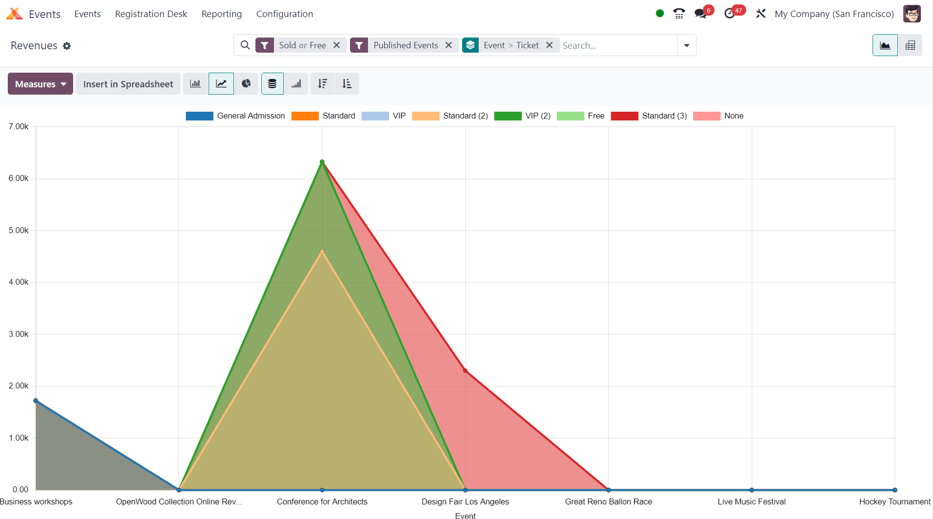
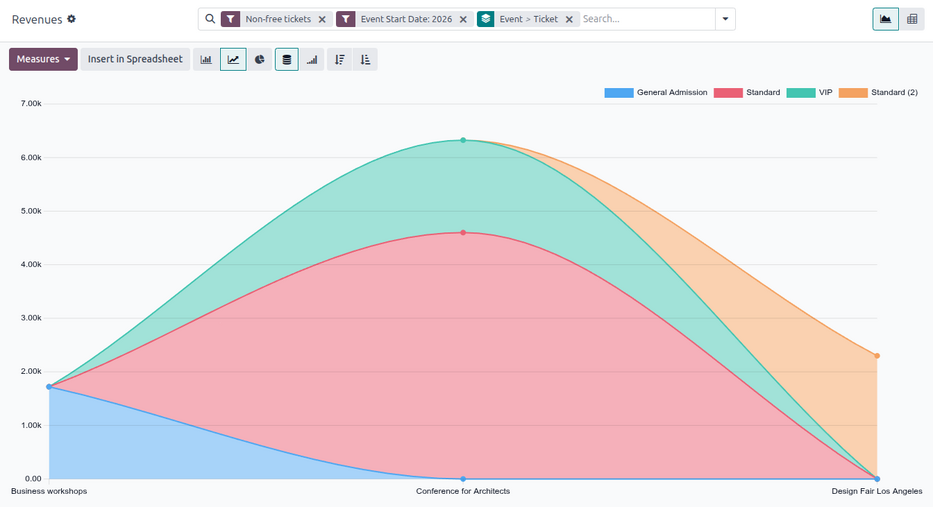
[IMP] Events: Update revenues report 18.0
closes odoo/documentation#19215

X-original-commit: fb485886435383e303ccae2995d4e76055eec5c1

diff --git a/content/applications/marketing/events/event_reporting/revenues_report.rst b/content/applications/marketing/events/event_reporting/revenues_report.rst
@@ -10,56 +10,49 @@ The following documentation focuses on the reporting options related to event *R
 Revenues reporting page
 =======================
 
-To access the *Attendees* reporting page, navigate to :menuselection:`Events app --> Reporting -->
+To access the *Revenues* reporting page, navigate to :menuselection:`Events app --> Reporting -->
 Revenues`.
 
 .. image:: revenues_report/default-view.png
-   :align: center
    :alt: The default view of the Revenues reporting page in the Odoo Events application.
 
 By default, the :guilabel:`Revenues` reporting page appears as a graph (a :icon:`fa-line-chart`
 :guilabel:`(Line Chart)` with :icon:`fa-database` :guilabel:`(Stacked)` data). The default filters,
-:guilabel:`Non-free tickets` and :guilabel:`Event Start Date: (current year)`, are present in the
+:guilabel:`Non-free tickets` and :guilabel:`Event Start Date: (current year)`, are applied in the
 search bar.
 
 .. tip::
    To learn more about the various graph views (and graph view options), refer to the :ref:`Graph
    views <reporting/using-graph>` documentation.
 
-The :guilabel:`Revenues` reporting page can also be viewed as a :ref:`pivot table
-<reporting/views/pivot>`, by clicking the :icon:`oi-view-pivot` :guilabel:`(Pivot)` icon in the
-upper-right corner.
+The *Revenues* reporting page can also be viewed as a :ref:`pivot table <reporting/views/pivot>`, by
+clicking the :icon:`oi-view-pivot` :guilabel:`(Pivot)` icon in the upper-right corner.
 
 Measures
 --------
 
-Choosing specific :ref:`Measures <reporting/choosing-measures>` is a quick way to customize
-reporting pages.
+Choosing specific :ref:`measures <reporting/choosing-measures>` allows users to customize reporting
+pages.
 
-Regardless of the chosen view, the measures on the :guilabel:`Revenues` reporting page are as
-follows: :guilabel:`Revenues`, :guilabel:`Untaxed Revenues`, and :guilabel:`Count`.
+Clicking the :guilabel:`Measures` drop-down button reveals the following options:
+
+- :guilabel:`Revenues`: Shows the revenues generated from events.
+- :guilabel:`Untaxed Revenues`: Shows the untaxed revenues generated from events.
+- :guilabel:`Count`: Shows the total number of registrants who attended events.
 
 .. note::
-   In the default graph view of the :guilabel:`Revenues` reporting page, only the
-   :guilabel:`Revenues` option is set in the :guilabel:`Measures` drop-down menu.
-
    In graph view, only one of the :guilabel:`Measures` can be selected at a time.
 
    When the pivot option is selected, all :guilabel:`Measures` options are selected, by default.
 
-- :guilabel:`Revenues`: shows the revenues generated from events.
-- :guilabel:`Untaxed Revenues`: shows the untaxed revenues generated from events.
-- :guilabel:`Count`: shows the total amount of registrants who attended events.
-
 Filters and grouping options
 ----------------------------
 
-To reveal a drop-down menu of filter and grouping options to create custom reports, click the
-:icon:`fa-caret-down` :guilabel:`(down arrow)` to the right of the search bar.
+To reveal a drop-down menu of filter and grouping options, click the :icon:`fa-caret-down`
+:guilabel:`(down arrow)` next to the search bar.
 
-Doing so opens a drop-down mega menu of options organized into columns: :ref:`Filters
-<search/preconfigured-filters>`, :ref:`Group By <search/group>`, and :ref:`Favorites
-<search/favorites>`.
+The drop-down menu allows users to set :ref:`Filters <search/preconfigured-filters>` and :ref:`Group
+By <search/group>` options.
 
 .. note::
    If a time-related option has been selected from the :guilabel:`Filters` column (e.g. the default
@@ -74,41 +67,38 @@ Doing so opens a drop-down mega menu of options organized into columns: :ref:`Fi
 Filter options
 ~~~~~~~~~~~~~~
 
-In the :guilabel:`Filters` column of the drop-down mega menu, there are various event-related
-options that can be utilized to create custom reports, based on a number of specific criteria.
+The :guilabel:`Filters` column in the search bar's drop-down menu allows users to restrict the data
+to specific criteria.
 
-Multiple options in the :guilabel:`Filters` column can be selected at once.
+Multiple options in the :guilabel:`Filters` column can be selected at once. Options can be applied
+to any view.
 
 The :guilabel:`Filters` column has the following options:
 
-- :guilabel:`Non-free tickets`: event tickets/registrations that were **not** free.
-- :guilabel:`Free`: event tickets/registrations that *were* free.
-- :guilabel:`Pending payment`: event tickets/registrations that were purchased, but still have
-  payment pending.
-- :guilabel:`Sold`: event tickets/registrations that have been successfully sold (and paid for).
-- :guilabel:`Registration Date`: Click the :icon:`fa-caret-down` :guilabel:`(down arrow)` icon to
-  reveal a list of month, quarter, and year options. Select any number of these options to view a
-  specific periods of time and see how many registrations happened during that time.
-- :guilabel:`Upcoming/Running`: include revenue-related information for events that are either
-  currently running or are going to happen in the future.
-- :guilabel:`Past Events`: include revenue-related information for events that have already taken
-  place.
-- :guilabel:`Event Start Date`: Click the :icon:`fa-caret-down` :guilabel:`(down arrow)` icon to
-  reveal a list of month, quarter, and year options. Select any number of these options to designate
-  event start dates to use as filters for revenue-related event data.
-- :guilabel:`Event End Date`: Click the :icon:`fa-caret-down` :guilabel:`(down arrow)` icon to
-  reveal a list of month, quarter, and year options. Select any number of these options to designate
-  event end dates to use as filters for revenue-related event data.
-- :guilabel:`Published Events`: Select this option to show revenue-related data for published
-  events.
-- :guilabel:`Add Custom Filter`: Create a custom filter to analyze event-related revenue data. To
-  learn more, refer to the documentation on :ref:`custom filters <search/custom-filters>`.
+- :guilabel:`Non-free tickets`: Filter by event tickets/registrations that are not free.
+- :guilabel:`Free`: Filter by event tickets/registrations that are free.
+- :guilabel:`Pending payment`: Filter by event tickets/registrations that are purchased but are
+  pending payment.
+- :guilabel:`Sold`: Filter by event tickets/registrations that are sold and paid for.
+- :guilabel:`Registration Date`: Filter by a specific registration date. Click the
+  :icon:`fa-caret-down` :guilabel:`(down arrow)` icon to reveal a list of month, quarter, and year
+  options.
+- :guilabel:`Upcoming/Running`: Filter by current or future events.
+- :guilabel:`Past Events`: Filter by completed events.
+- :guilabel:`Event Start Date`: Filter by a specific event start date. Click the
+  :icon:`fa-caret-down` :guilabel:`(down arrow)` icon to reveal a list of month, quarter, and year
+  options.
+- :guilabel:`Event End Date`: Filter by a specific event end date. Click the :icon:`fa-caret-down`
+  :guilabel:`(down arrow)` icon to reveal a list of month, quarter, and year options.
+- :guilabel:`Published Events`: Filter by published events.
+- :guilabel:`Add Custom Filter`: Create a :ref:`custom filter <search/custom-filters>` to analyze
+  event-related revenue data.
 
 Group By options
 ~~~~~~~~~~~~~~~~
 
-In the :guilabel:`Group By` column of the drop-down mega menu, there are various event-related
-options to create custom groupings of data.
+The :guilabel:`Group By` column in the search bar's drop-down menu allows users to group the data by
+specific criteria.
 
 Multiple :guilabel:`Group By` options can be selected at once.
 
@@ -121,71 +111,56 @@ The :guilabel:`Group By` column has the following options:
 - :guilabel:`Registration Status`: Group data based on the status of registrations.
 - :guilabel:`Sale Order Status`: Group data based on the status of event-related sales orders.
 - :guilabel:`Customer`: Group data based on customer records.
-- :guilabel:`Add Custom Group`: Click the :icon:`fa-caret-down` :guilabel:`(down arrow)` icon to
-  reveal a drop-down of grouping options. To select one, click on the desired option, and Odoo adds
-  it to the :guilabel:`Group By` column. Multiple selections can be made.
+- :guilabel:`Add Custom Group`: Create a :ref:`custom group <search/group>` to organize data by
+  additional fields. Click the :icon:`fa-caret-down` :guilabel:`(down arrow)` icon to reveal a
+  drop-down of grouping options. Multiple selections can be made.
 
 Sample report: event ticket analysis (graph)
 ============================================
 
-The following is an example of how various filters and grouping options can create a useful analytic
-graph report related to event revenues. In this case, the configurations present data about sold or
-free tickets to published events, with the metrics separated by ticket type and event.
+The following is an example of how various filters and grouping options can be used to compare the
+distributions of paid tickets and free tickets for published events, organized by ticket type and
+event.
 
-.. image:: revenues_report/event-ticket-analysis.png
-   :align: center
-   :alt: The event ticket analysis sample report with unique filters and groupings in place.
+To create this report, navigate to :menuselection:`Events app --> Reporting --> Revenues`. Stay in
+the default graph view but remove the default filters from the search bar.
 
-To create such a report, navigate to :menuselection:`Events app --> Reporting --> Revenues`. Stay in
-the default graph view, but remove the default filters from the search bar.
+Then, click the :icon:`fa-caret-down` :guilabel:`(down arrow)` next to the search bar. From here,
+select :guilabel:`Free` and :guilabel:`Sold` from the :guilabel:`Filters` column.
 
-Then, click the :icon:`fa-caret-down` :guilabel:`(down arrow)` to the right of the search bar, to
-reveal the drop-down mega menu of filter and grouping options.
-
-From here, select :guilabel:`Free` and :guilabel:`Sold` from the :guilabel:`Filters` column.
-
-Then, since it is desired to **only** view data related to already published events, select the
-:guilabel:`Published Events` option in the :guilabel:`Filters` column, as well.
+To view data related **only** to already published events, select the :guilabel:`Published Events`
+option in the :guilabel:`Filters` column.
 
 Next, in the :guilabel:`Group By` column, select the :guilabel:`Event` and :guilabel:`Ticket`
-options, **in that sequential order**. Doing so first groups the data by event, *then* by ticket
-type, which provides a more useful array of data to analyze.
+options, **in that order**. Doing so first groups the data by event, then by ticket type.
 
 .. important::
    The order in which the options are selected in the :guilabel:`Group By` column directly affects
-   how the data is presented on the report.
+   how the data is grouped and displayed on the report.
 
-From there, additional configurations can be added for more detailed data, if desired.
-
-If no additional filters or groupings are added, Odoo presents a graphical representation of data
-related to all *free* or *sold* tickets for *published events*, grouped by *event*, and organized by
-*ticket* type.
+.. image:: revenues_report/event-ticket-analysis.png
+   :alt: The event ticket analysis sample report with unique filters and groupings in place.
 
 Sample report: event type analysis (pivot table)
 ================================================
 
-The following is an example of how various filters and grouping options can create a useful analytic
-pivot table report related to event revenues. In this case, the configurations present data about
-how much revenue different event types have generated, in order to gauge which events are the most
-profitable.
+The following is an example of how to create a report analyzing revenue by event type to determine
+which event types are most profitable.
 
-.. image:: revenues_report/event-type-analysis.png
-   :align: center
-   :alt: The event type analysis sample report with unique filters and groupings in place.
-
-First, navigate to :menuselection:`Events app --> Reporting --> Revenues`, and switch to the pivot
-table view, by clicking the :icon:`oi-view-pivot` :guilabel:`(Pivot)` icon in the upper-right
-corner.
+First, navigate to :menuselection:`Events app --> Reporting --> Revenues` and switch to the pivot
+table view by clicking the :icon:`oi-view-pivot` :guilabel:`(Pivot)` icon in the upper-right corner.
 
 Keep the default filters (:guilabel:`Non-free tickets` and :guilabel:`Event Start Date: (year)`) in
 the search bar.
 
-Next, open the :guilabel:`Measures` drop-down menu, and deselect the option for :guilabel:`Count`,
-because this report is only going to focus on revenues.
+Next, open the :guilabel:`Measures` drop-down menu and deselect the option for :guilabel:`Count` as
+this report focuses only on revenues.
 
 Then, click :icon:`fa-plus-square` :guilabel:`Total` above the column titles, and select
 :guilabel:`Event Type` from the resulting drop-down menu.
 
-With these configurations in place, all the revenues generated from the events (and their
-corresponding registrations) are displayed, organized by the event type (presented as expandable
-columns).
+With these configurations, all revenues generated from the events and their corresponding
+registrations are organized by the event type.
+
+.. image:: revenues_report/event-type-analysis.png
+   :alt: The event type analysis sample report with unique filters and groupings in place.
